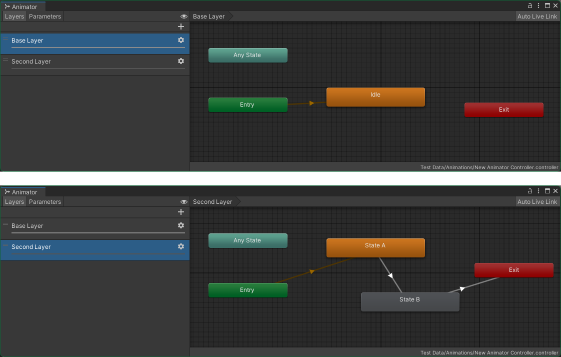
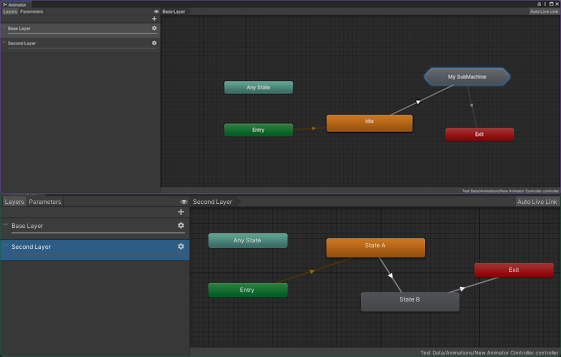
Added support for sub-state-machine child animation generation and deleting individual child animation clips.

diff --git a/Packages/com.nidonocu.vrcunitytoolbar/README.md b/Packages/com.nidonocu.vrcunitytoolbar/README.md
@@ -19,7 +19,7 @@ Features:
 More functions may be added over time.
 
 ## Compatibility
-This package has been tested with `Unity 2022.3.22f` and the `VRChat SDK 3.10.1`.
+This package has been tested with `Unity 2022.3.22f` and the `VRChat SDK 3.10.1` and version `3.10.5`.
 
 It should function in projects both using and not using the *VRChat Creator Companion*.
 
@@ -196,7 +196,21 @@ This menu option opens a tutorial window to for a reminder of how to use this fe
 
 You can add more animations at any time by repeating the above steps.
 
-***Important Note:*** You cannot remove individual animation assets once they have been created at this time, you can only delete all animations at once by choosing the **Delete Child Animations** option instead on the Animator's context menu.
+Sub-State-Machines are supported but BlendTrees will be ignored.
+
+#### Deleting Animation Clips
+
+You can't use the normal *Delete* command for child animations, but a custom menu option has been added to let you remove Animations you no longer need.
+
+**1.** Expand the Animation Controller's contents using the small arrow beside the Controller's file in the **Project** window.
+
+**2.** **Left-click** the animation clip you want to delete. Hold **Shift** and **left-click** to select multiple clips.
+
+**3.** **Right-click** any of the selected clips, and choose **Delete Child Animation** to delete the selected clips. If you want to delete **ALL** the child clips for an Animation Controller, choose **Delete All Child Animations**.
+
+![Animation Clip's Context Menu](https://nidonocu.github.io/vrc-unity-toolbar/Delete_Animations_Menu.png)
+
+After a confirmation window, the clips will be deleted *permanently*.
 
 ### Generate Materials From Textures
 

diff --git a/README.md b/README.md
@@ -19,7 +19,7 @@ Features:
 More functions may be added over time.
 
 ## Compatibility
-This package has been tested with `Unity 2022.3.22f` and the `VRChat SDK 3.10.1`.
+This package has been tested with `Unity 2022.3.22f` and the `VRChat SDK 3.10.1` and version `3.10.5`.
 
 It should function in projects both using and not using the *VRChat Creator Companion*.
 
@@ -196,7 +196,21 @@ This menu option opens a tutorial window to for a reminder of how to use this fe
 
 You can add more animations at any time by repeating the above steps.
 
-***Important Note:*** You cannot remove individual animation assets once they have been created at this time, you can only delete all animations at once by choosing the **Delete Child Animations** option instead on the Animator's context menu.
+Sub-State-Machines are supported but BlendTrees will be ignored.
+
+#### Deleting Animation Clips
+
+You can't use the normal *Delete* command for child animations, but a custom menu option has been added to let you remove Animations you no longer need.
+
+**1.** Expand the Animation Controller's contents using the small arrow beside the Controller's file in the **Project** window.
+
+**2.** **Left-click** the animation clip you want to delete. Hold **Shift** and **left-click** to select multiple clips.
+
+**3.** **Right-click** any of the selected clips, and choose **Delete Child Animation** to delete the selected clips. If you want to delete **ALL** the child clips for an Animation Controller, choose **Delete All Child Animations**.
+
+![Animation Clip's Context Menu](https://nidonocu.github.io/vrc-unity-toolbar/Delete_Animations_Menu.png)
+
+After a confirmation window, the clips will be deleted *permanently*.
 
 ### Generate Materials From Textures
 

diff --git a/Website/README.md b/Website/README.md
@@ -19,7 +19,7 @@ Features:
 More functions may be added over time.
 
 ## Compatibility
-This package has been tested with `Unity 2022.3.22f` and the `VRChat SDK 3.10.1`.
+This package has been tested with `Unity 2022.3.22f` and the `VRChat SDK 3.10.1` and version `3.10.5`.
 
 It should function in projects both using and not using the *VRChat Creator Companion*.
 
@@ -196,7 +196,21 @@ This menu option opens a tutorial window to for a reminder of how to use this fe
 
 You can add more animations at any time by repeating the above steps.
 
-***Important Note:*** You cannot remove individual animation assets once they have been created at this time, you can only delete all animations at once by choosing the **Delete Child Animations** option instead on the Animator's context menu.
+Sub-State-Machines are supported but BlendTrees will be ignored.
+
+#### Deleting Animation Clips
+
+You can't use the normal *Delete* command for child animations, but a custom menu option has been added to let you remove Animations you no longer need.
+
+**1.** Expand the Animation Controller's contents using the small arrow beside the Controller's file in the **Project** window.
+
+**2.** **Left-click** the animation clip you want to delete. Hold **Shift** and **left-click** to select multiple clips.
+
+**3.** **Right-click** any of the selected clips, and choose **Delete Child Animation** to delete the selected clips. If you want to delete **ALL** the child clips for an Animation Controller, choose **Delete All Child Animations**.
+
+![Animation Clip's Context Menu](https://nidonocu.github.io/vrc-unity-toolbar/Delete_Animations_Menu.png)
+
+After a confirmation window, the clips will be deleted *permanently*.
 
 ### Generate Materials From Textures
 

diff --git a/Packages/com.nidonocu.vrcunitytoolbar/CHANGELOG.md b/Packages/com.nidonocu.vrcunitytoolbar/CHANGELOG.md
@@ -1,5 +1,9 @@
 # Change Log
 
+### 3.2.0
+* Adds the ability to delete specific child AnimationClips that are part of an Animation Controller asset.
+* Adds support for generating and storing AnimationClips in an Animation Controller Asset that are part of Sub-State-Machines.
+
 ### 3.1.4
 * Fixes issue when installing the Mochie shader for the first time via the toolbar and it's not
  already in the project.
